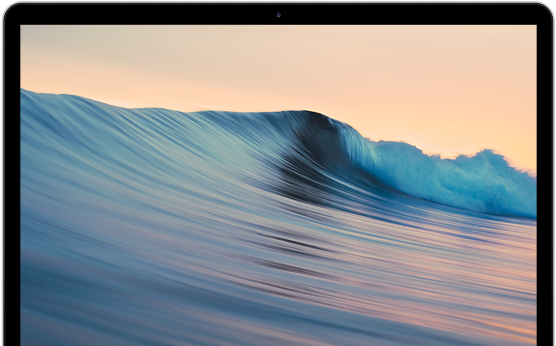
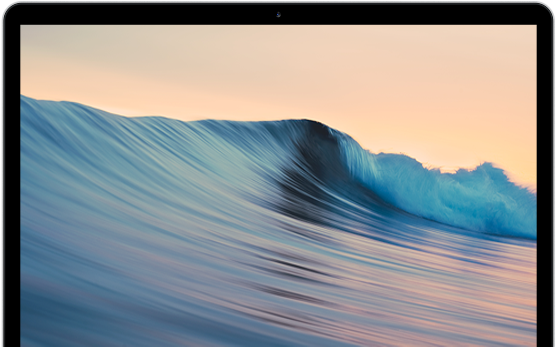
video done, still working on btns in footer

diff --git a/assets/less/components/_buttons.less b/assets/less/components/_buttons.less
@@ -1,0 +1,51 @@
+.rectangle {
+  text-align: center;
+  width: 150px;
+  height: 220px;
+  background: @brand-primary;
+  margin-top: 0px;
+  margin-left: auto;
+  margin-right: auto;
+  background-color: @brand-primary;
+  .border-radius(8px);
+  .link-mixin();
+  .info-icon;
+  .labs;
+}
+
+.link-mixin(@transition: .5s) {
+  -o-transition:@transition;
+  -ms-transition:@transition;
+  -moz-transition:@transition;
+  -webkit-transition:@transition;
+  transition:@transition;
+  &:hover {
+    background: @brand-primary-dark;
+    text-decoration: none;
+    .info-icon-hover;
+  }
+}
+
+.info-icon {
+  background-image: url(http://localhost:8080/wp-content/themes/Jack2/assets/img/svg/info.svg), none;
+  background-repeat: no-repeat;
+  background-size: 20px 20px;
+  background-attachment: inherit;
+  background-position: 96% 97%;
+}
+
+.info-icon-hover {
+  background-image: url(http://localhost:8080/wp-content/themes/Jack2/assets/img/svg/info-hover.svg), none;
+  background-repeat: no-repeat;
+  background-size: 20px 20px;
+  background-attachment: inherit;
+  background-position: 96% 97%;
+}
+
+.labs {
+  background-image: url(http://localhost:8080/wp-content/themes/Jack2/assets/img/svg/labs.svg), none;
+  background-repeat: no-repeat;
+  background-size: 50px 50px;
+  background-attachment: inherit;
+  background-position: 50% 50%;
+}

diff --git a/assets/less/_global.less b/assets/less/_global.less
@@ -1,3 +1,7 @@
+/***********************/
+/* Hover Mixins */
+/***********************/
+
 a {
   color: @brand-secondary;
   .link-mixin();
@@ -42,4 +46,14 @@ a {
 
 .top-pad-md() {
   padding-top: 86px;
+}
+
+.border-radius (@radius: 6px) {
+	-webkit-border-radius: @radius;
+	-moz-border-radius:    @radius;
+	border-radius:         @radius;
+
+	-moz-background-clip:    padding;
+	-webkit-background-clip: padding-box;
+	background-clip:         padding-box;
 }

diff --git a/assets/less/layouts/_header.less b/assets/less/layouts/_header.less
@@ -119,3 +119,14 @@ background-color: @brand-primary;
 		color: @brand-dark;
 	}
 }
+
+#video-wrapper {
+	background: transparent url(http://localhost:8080/wp-content/themes/Jack2/assets/img/home/screen.png) top center no-repeat;
+	padding: 25px 50px 0 50px;
+	margin-bottom: -5px;
+}
+
+video {
+	width: 50%;
+	height: auto;
+}

diff --git a/base-front-page.php b/base-front-page.php
@@ -29,7 +29,13 @@
     <div class="wrap container">
       <h1>Every Great Site Consists of 3 Things</h1>
       <h2>1. Pixel Perfect Design</h2>
-      <img src="<?php echo get_stylesheet_directory_uri(); ?>/assets/img/home/screen.png" alt="pixel perfect design" />
+      <div id='video-wrapper'>
+        <video autoplay class='video-js' id='craft-everything-video'>
+          <source src='http://masonlawlor.com/assets/Jack2.1.mp4' type='video/mp4'>
+          <source src='https://s3-us-west-1.amazonaws.com/assets-media-dtelepathy/video/philosophy/DTBetaBrew.webm' type='video/webm'>
+          <source src='https://s3-us-west-1.amazonaws.com/assets-media-dtelepathy/video/philosophy/DTBetaBrew.ogv' type='video/ogg'>
+        </video>
+      </div>
     </div>
   </section>
 
@@ -76,7 +82,7 @@
           </div>
         </div>
         <div class="col-sm-6">
-          <img src="<?php echo get_stylesheet_directory_uri(); ?>/assets/img/home/video.png" alt="video-shots" />
+          <a href="//fast.wistia.net/embed/iframe/5we0mp1icc?popover=true" class="wistia-popover[height=360,playerColor=313131,width=640]"><img src="<?php echo get_stylesheet_directory_uri(); ?>/assets/img/home/video.png" alt="" /></a>
         </div>
       </div>
     </div>
@@ -104,21 +110,10 @@
     </div>
   </section>
 
-  <section id="footer-optin">
-    <div class="wrap container">
-      <div class="row">
-        <div class="col-sm-3 col-xs-6">
-        </div>
-        <div class="col-sm-3 col-xs-6">
-        </div>
-      </div>
-    </div>
-  </section>
-
-
   <?php get_template_part('templates/footer'); ?>
 
   <?php wp_footer(); ?>
 
 </body>
+<!-- Wistia Lightbox --><script charset="ISO-8859-1" src="//fast.wistia.com/assets/external/popover-v1.js"></script>
 </html>

diff --git a/templates/footer.php b/templates/footer.php
@@ -1,26 +1,19 @@
 <footer id="cta">
   <div class="container">
     <div class="row">
-      <div class="col-sm-3 col-xs-6">
+      <div class="col-sm-3 col-xs-12">
         <img src="<?php echo get_stylesheet_directory_uri(); ?>/assets/img/home/form.png" alt="form-placeholder" />
         <!--?php dynamic_sidebar('sidebar-footer'); ?-->
       </div>
-      <div class="col-sm-8 col-sm-offset-1 col-xs-6">
-        <h2>Faves:</h2>
-          <ol>
-            <li><a>
-                <p>Something goes here.</p>
-              </a></li>
-            <li><a>
-                <p>Something goes here.</p>
-              </a></li>
-            <li><a>
-                <p>Something goes here.</p>
-              </a></li>
-            <li><a>
-                <p>Something goes here.</p>
-              </a></li>
-          </ol>
+      <div class="col-sm-3 col-xs-12">
+          <div class="rectangle">
+          </div>
+      </div>
+      <div class="col-sm-3 col-xs-12">
+          <div class="rectangle"></div>
+      </div>
+      <div class="col-sm-3 col-xs-12">
+          <div class="rectangle"></div>
       </div>
     </div>
     <div id="footer" class="row">
